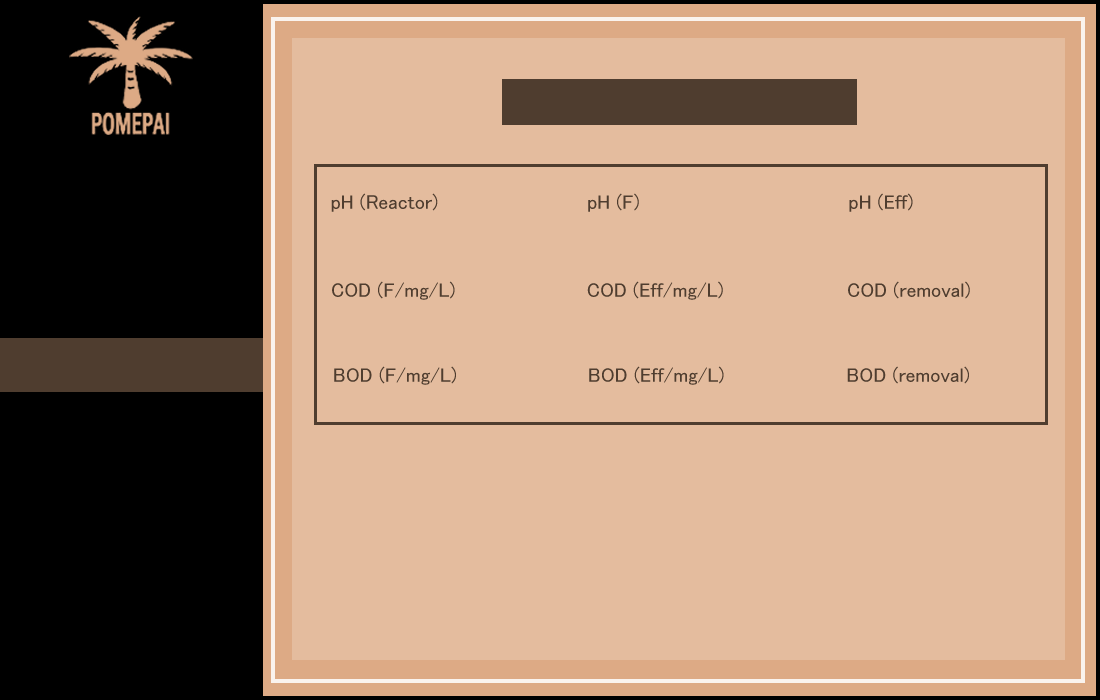
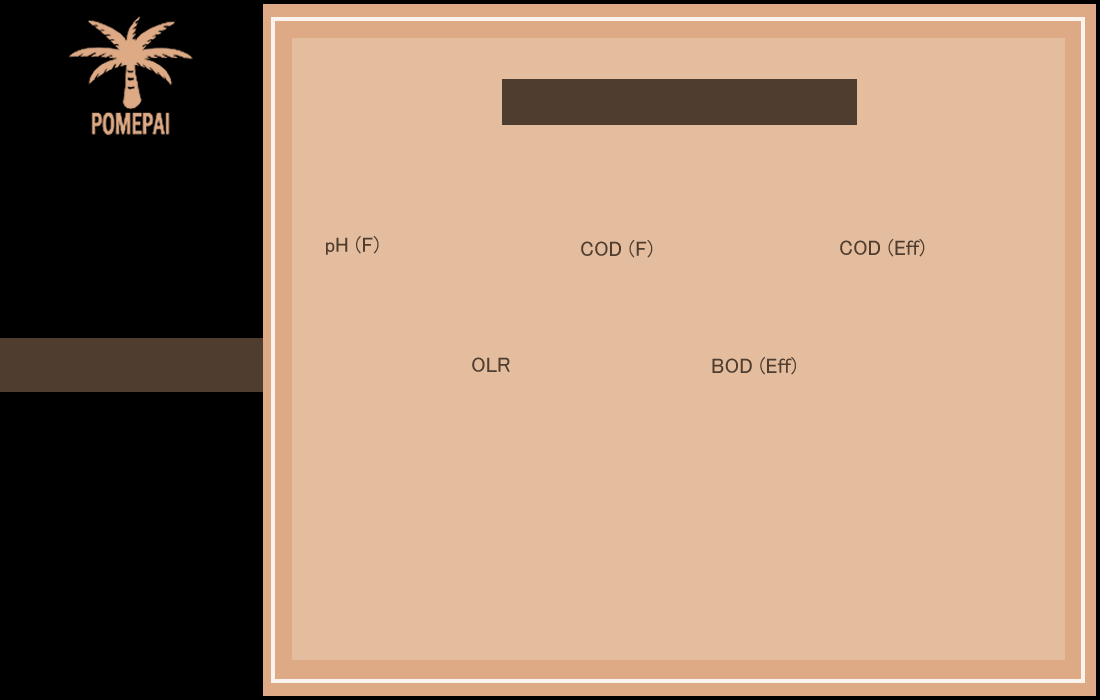
Updated inputs on single point prediction

diff --git a/Software.py b/Software.py
@@ -162,37 +162,26 @@ class PredictionPage(tk.Frame):
         input3 = tk.StringVar()
         input4 = tk.StringVar()
         input5 = tk.StringVar()
-        input6 = tk.StringVar()
-        input7 = tk.StringVar()
-        input8 = tk.StringVar()
-        input9 = tk.StringVar()
 
-        input1Entered = tk.Entry(self, width=30, textvariable=input1)
-        input1Entered.grid(column=0, row=0, padx=(0, 250), pady=(0, 250))
+        #pH
+        input2Entered = tk.Entry(self, width=30, textvariable=input1)
+        input2Entered.grid(column=0, row=0, padx=(0, 265), pady=(0, 165))
 
-        input2Entered = tk.Entry(self, width=30, textvariable=input2)
-        input2Entered.grid(column=0, row=0, padx=(0, 250), pady=(0, 80))
+        #COD1
+        input4Entered = tk.Entry(self, width=30, textvariable=input2)
+        input4Entered.grid(column=0, row=0, padx=(245, 0), pady=(0, 165))
 
-        input3Entered = tk.Entry(self, width=30, textvariable=input3)
-        input3Entered.grid(column=0, row=0, padx=(0, 250), pady=(90, 0))
+        #COD2
+        input5Entered = tk.Entry(self, width=30, textvariable=input3)
+        input5Entered.grid(column=0, row=0, padx=(765, 0), pady=(0, 165))
 
-        input4Entered = tk.Entry(self, width=30, textvariable=input4)
-        input4Entered.grid(column=0, row=0, padx=(260, 0), pady=(0, 250))
+        #OLR
+        input6Entered = tk.Entry(self, width=30, textvariable=input4)
+        input6Entered.grid(column=0, row=0, padx=(30, 0), pady=(70, 0))
 
-        input5Entered = tk.Entry(self, width=30, textvariable=input5)
-        input5Entered.grid(column=0, row=0, padx=(260, 0), pady=(0, 80))
-
-        input6Entered = tk.Entry(self, width=30, textvariable=input6)
-        input6Entered.grid(column=0, row=0, padx=(260, 0), pady=(90, 0))
-
-        input7Entered = tk.Entry(self, width=30, textvariable=input7)
-        input7Entered.grid(column=0, row=0, padx=(780, 0), pady=(0, 250))
-
-        input8Entered = tk.Entry(self, width=30, textvariable=input8)
-        input8Entered.grid(column=0, row=0, padx=(780, 0), pady=(0, 80))
-
-        input9Entered = tk.Entry(self, width=30, textvariable=input9)
-        input9Entered.grid(column=0, row=0, padx=(780, 0), pady=(90, 0))
+        #BOD
+        input8Entered = tk.Entry(self, width=30, textvariable=input5)
+        input8Entered.grid(column=0, row=0, padx=(509, 0), pady=(70, 0))
 
         CH4Check = tk.IntVar()
         CO2Check = tk.IntVar()
@@ -200,27 +189,24 @@ class PredictionPage(tk.Frame):
         tk.Checkbutton(self, text='CH4', variable=CH4Check, bg="#E4BC9E",
                        activebackground="#E4BC9E").grid(column=0, row=0, padx=(150, 0), pady=(300, 0))
         tk.Checkbutton(self, text='CO2', variable=CO2Check, bg="#E4BC9E",
-                       activebackground="#E4BC9E").grid(column=0, row=0, padx=(250, 0), pady=(300, 0))
-        tk.Checkbutton(self, text='H2S', variable=H2SCheck, bg="#E4BC9E",
                        activebackground="#E4BC9E").grid(column=0, row=0, padx=(350, 0), pady=(300, 0))
 
         def validateCheckBox():
-            if CO2Check.get() == 0 and CH4Check.get() == 0 and H2SCheck.get() == 0:
+            if CO2Check.get() == 0 and CH4Check.get() == 0:
                 error_Label = tk.Label(self, text='Invalid input', foreground='red')
                 error_Label.grid(column=0, row=0, padx=(350, 80), pady=(580, 20))
                 error_Label.after(3000, lambda: error_Label.destroy())
             else:
-                predictSingleOutput(input1.get(), input4.get(), input7.get(),
-                                    input2.get(), input5.get(), input8.get(),
-                                    input3.get(), input6.get(), input9.get(),
-                                    CH4Check.get(), CO2Check.get(),
-                                    H2SCheck.get())
+                predictSingleOutput( input1.get(),
+                                    input2.get(), input3.get(), input4.get(),
+                                    input5.get(),
+                                    CH4Check.get(), CO2Check.get())
 
         def nonInteger():
             if (
-                    input1.get() == '' and input2.get() == '' and input3.get() == '' and input4.get() == '' and input5.get() == '' and input6.get() == '' and input7.get() == '' and input8.get() == '' and input9.get() == '') \
+                    input1.get() == '' and input2.get() == '' and input3.get() == '' and input4.get() == '' and input5.get() == '') \
                     or (
-                    input1.get().isalpha() or input2.get().isalpha() or input3.get().isalpha() or input4.get().isalpha() or input5.get().isalpha() or input6.get().isalpha() or input7.get().isalpha() or input8.get().isalpha() or input9.get().isalpha()):
+                    input1.get().isalpha() or input2.get().isalpha() or input3.get().isalpha() or input4.get().isalpha() or input5.get().isalpha()):
                 error_Label = tk.Label(self, text='Invalid input', foreground='red')
                 error_Label.grid(column=0, row=0, padx=(350, 80), pady=(580, 20))
                 error_Label.after(3000, lambda: error_Label.destroy())
@@ -242,16 +228,11 @@ class PredictionPage(tk.Frame):
             input3.set("")
             input4.set("")
             input5.set("")
-            input6.set("")
-            input7.set("")
-            input8.set("")
-            input9.set("")
             CH4Check.set(0)
             CO2Check.set(0)
-            H2SCheck.set(0)
 
-        def predictSingleOutput(ph_input1, ph_input2, ph_input3, cod_input1, cod_input2, cod_input3, bod_input1,
-                                bod_input2, bod_input3, ch4_input, co2_input, h2s_input):
+        def predictSingleOutput(ph_input, cod_input1, cod_input2, bod_input,
+                                olr_input, ch4_input, co2_input):
             xInput = [[]]
             x = []
             y = []
@@ -259,40 +240,25 @@ class PredictionPage(tk.Frame):
             x = np.array(x)
             y = np.array(y)
 
-            if ph_input1 != '':
-                xInput = np.concatenate((xInput, [[float(ph_input1)]]), 1)
-                x = np.concatenate((x, ['pH Reactor']))
-            if ph_input2 != '':
-                xInput = np.concatenate((xInput, [[float(ph_input2)]]), 1)
+            if ph_input != '':
+                xInput = np.concatenate((xInput, [[float(ph_input)]]), 1)
                 x = np.concatenate((x, ['pH F']))
-            if ph_input3 != '':
-                xInput = np.concatenate((xInput, [[float(ph_input3)]]), 1)
-                x = np.concatenate((x, ['pH Eff']))
             if cod_input1 != '':
                 xInput = np.concatenate((xInput, [[float(cod_input1)]]), 1)
                 x = np.concatenate((x, ['COD F/mg/L']))
             if cod_input2 != '':
                 xInput = np.concatenate((xInput, [[float(cod_input2)]]), 1)
                 x = np.concatenate((x, ['COD Eff/mg/L']))
-            if cod_input3 != '':
-                xInput = np.concatenate((xInput, [[float(cod_input3)]]), 1)
-                x = np.concatenate((x, ['COD removal']))
-            if bod_input1 != '':
-                xInput = np.concatenate((xInput, [[float(bod_input1)]]), 1)
-                x = np.concatenate((x, ['BOD F/mg/L']))
-            if bod_input2 != '':
-                xInput = np.concatenate((xInput, [[float(bod_input2)]]), 1)
+            if olr_input != '':
+                xInput = np.concatenate((xInput, [[float(olr_input)]]), 1)
+                x = np.concatenate((x, ['OLR']))
+            if bod_input != '':
+                xInput = np.concatenate((xInput, [[float(bod_input)]]), 1)
                 x = np.concatenate((x, ['BOD Eff/mg/L']))
-            if bod_input3 != '':
-                xInput = np.concatenate((xInput, [[float(bod_input3)]]), 1)
-                x = np.concatenate((x, ['BOD removal']))
-
             if ch4_input == 1:
                 y = np.concatenate((y, ['CH4']))
             if co2_input == 1:
                 y = np.concatenate((y, ['CO2']))
-            if h2s_input == 1:
-                y = np.concatenate((y, ['H2S']))
 
             # Getting dataset to fit to Model
             xData = updated_df[x].values
